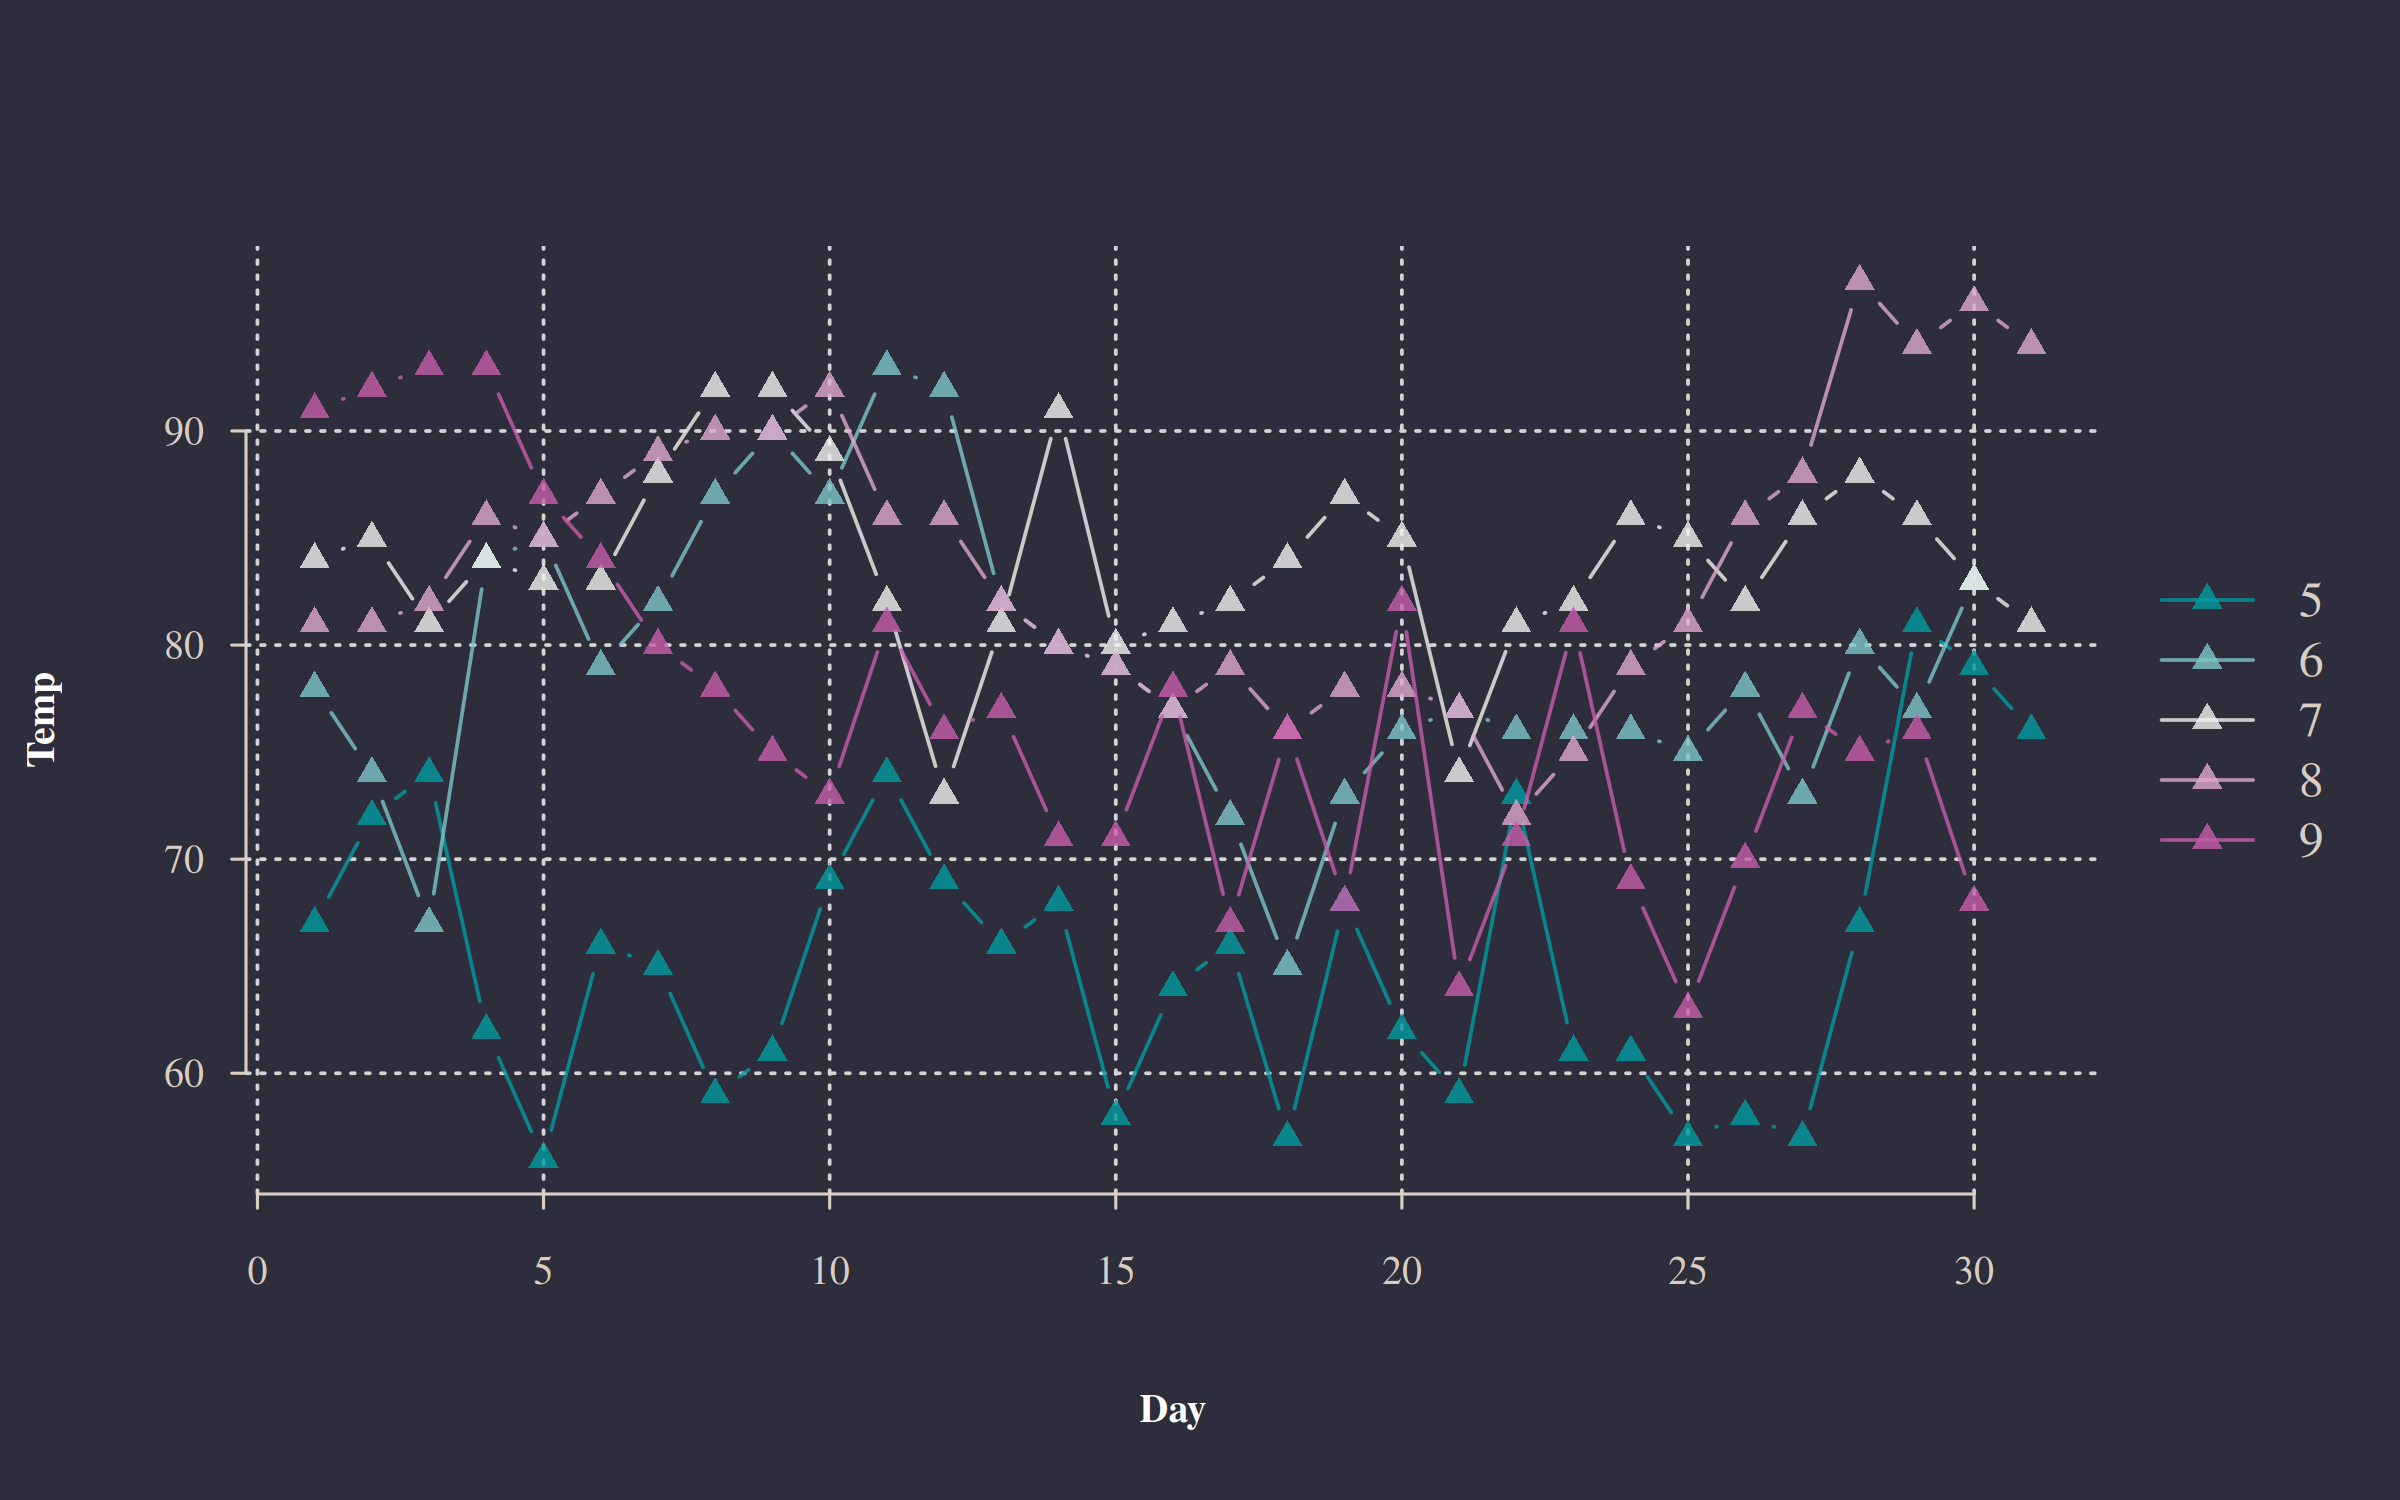
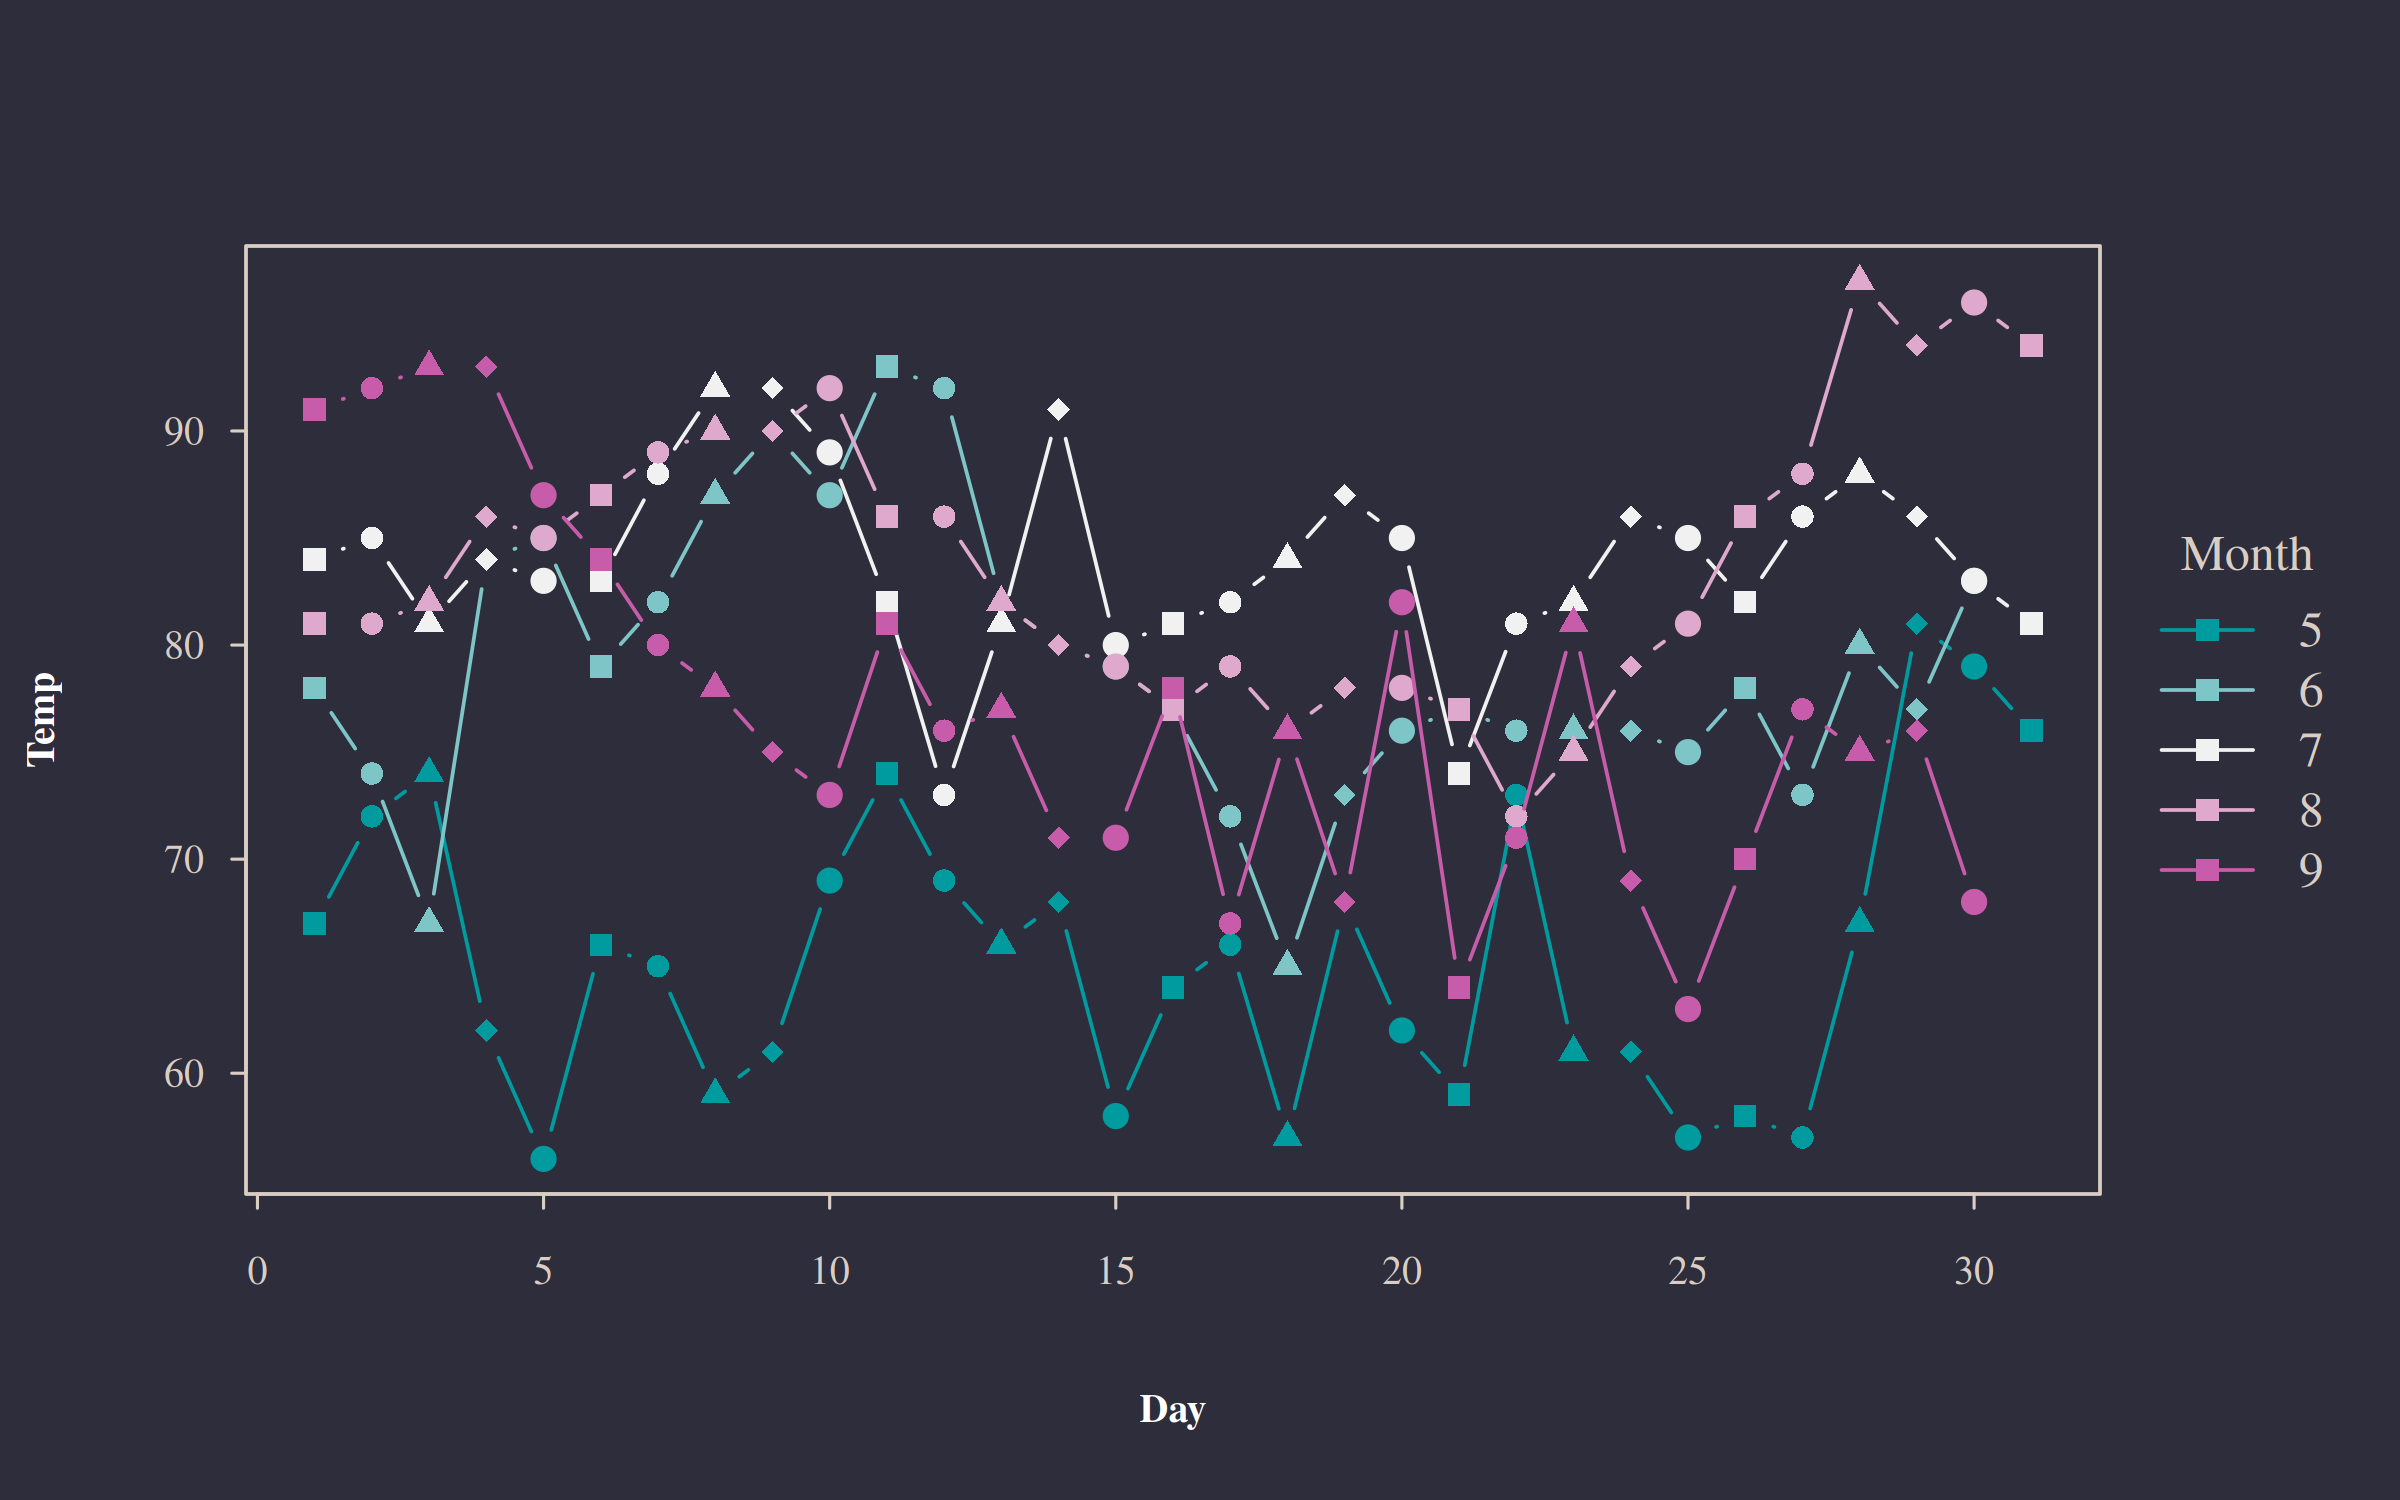
README typos and tweaks

diff --git a/README.md b/README.md
@@ -31,13 +31,13 @@ of, and in between these amazing packages.
 
 It is perhaps not surprising then that the base R graphics system
 sometimes gets short shrift. This is unfortunate, because base R offers
-extraordinarily powerful and flexible plotting facilities. Just type in
-`demo("graphics")` in your R console to get an idea, or see these two
-excellent
+very powerful and flexible plotting facilities. Just type in
+`demo(graphics)` or `demo(persp)` into your R console to get an idea, or
+see these two excellent
 [introductory](https://github.com/karoliskoncevicius/tutorial_r_introduction/blob/main/baseplotting.md)
 [tutorials](https://quizzical-engelbart-d15a44.netlify.app/2021-2022_m2-data-2_visu-2_practice#1).
 The downside of this power and flexibility is that plotting in base R
-can require quite a lot of manual tinkering. A case in point is plotting
+can require a fair bit of manual tinkering. A case in point is plotting
 grouped data and then generating an appropriate legend. Doing this with
 the generic `plot()` function can require several function calls (or a
 loop), fiddling with your plot regions, and writing the legend out
@@ -60,7 +60,7 @@ a more convenient version of the base R `plot` functionality. You can
 use pretty much the same syntax and all of your theming elements should
 carry over too. It has no other dependencies than base R itself, which
 might make it more suitable for situations where dependency management
-is expensive (e.g., an R application running ina browser via
+is expensive (e.g., an R application running in a browser via
 [WebAssembly](https://docs.r-wasm.org/webr/latest/).)
 
 ## Examples
@@ -102,10 +102,10 @@ plot2(Temp ~ Day, data = airquality, main = "plot2 (formula)")
 par(op) # reset to a unique (single) plot frame
 ```
 
-So far, so good. Where `plot2` starts to diverge from its base
+So far, so good. But where `plot2` starts to diverge from its base
 counterpart is with respect to grouped data. In particular, `plot2`
-allows you to characterize groups using the `by` argument. Notice that
-we also get an automatic legend (we’ll return to that shortly).
+allows you to characterize groups using the `by` argument.[^1] for a
+longer discussion.\]
 
 ``` r
 plot2(airquality$Day, airquality$Temp, by = airquality$Month)
@@ -113,8 +113,12 @@ plot2(airquality$Day, airquality$Temp, by = airquality$Month)
 
 <img src="man/figures/README-unnamed-chunk-5-1.png" width="100%" />
 
+Notice that we also get an automatic legend. We’ll return to legend
+customization shortly.
+
 An even more convenient approach is to use the equivalent formula
-syntax. Just place the grouping variable after a vertical bar `|`.
+syntax. Just place the grouping variable after a vertical bar (i.e.,
+`|`).
 
 ``` r
 plot2(Temp ~ Day | Month, airquality)
@@ -122,20 +126,11 @@ plot2(Temp ~ Day | Month, airquality)
 
 <img src="man/figures/README-unnamed-chunk-6-1.png" width="100%" />
 
-At this point, experienced base plot users might protest that you *can*
-colour by groups using the `col` argument.[^1] This is true, but there
-are several points to push back on. First, you don’t get an automatic
-legend. Second, the base `plot` formula method doesn’t specify the
-grouping within the formula itself (not a deal-breaker, but particularly
-consistent in my view). Third, and perhaps most importantly, this
-grouping doesn’t carry over to line plots (i.e., type=“l”). Instead, you
-have to transpose your data and use `mplot`.[^2]
-
-We can contrast this with `plot2` where converting to a grouped line
-plot is a simple argument change. I’ll also use this as an opportunity
-to highlight that the legend responds accordingly to these plot element
-changes and can be further customized. Note the use of the “!” in the
-`legend.position` argument to place the legend *outside* the plot area.
+Converting to a grouped line plot is a simple matter of adjusting the
+`type` argument. I’ll also use this as an opportunity to highlight that
+the legend responds to these plot element changes accordingly and can be
+further customized. Note the use of the “!” in the `legend.position`
+argument to place the legend *outside* the plot area.
 
 ``` r
 plot2( 
@@ -151,7 +146,7 @@ Let’s discuss colour palettes briefly. The default group colours in
 `plot2` are either “Okabe-Ito” or “Viridis”, depending on the number of
 groups. But this is easily changed via the `palette` argument. Note that
 all palettes supported by `palette.pals()` and `hcl.pals()` are
-supported out-of-the-box.[^3] Just pass on an appropriate palette name
+supported out-of-the-box.[^2] Just pass on an appropriate palette name
 as a string.
 
 ``` r
@@ -165,14 +160,16 @@ plot2(
 
 <img src="man/figures/README-unnamed-chunk-8-1.png" width="100%" />
 
-Its possible to add a lot more customization to your plots using the
-accompanying `legend.args` and `palette.args` arguments. You can turn
-off the legend title and bounding box, switch the direction of the text,
-add transparency to your colour palette, etc. etc. Here’s a quick
-penultimate example, where we also show off the enhanced `grid`
+Its possible to add a lot more customization to your plots. For example,
+the accompanying `legend.args` and `palette.args` arguments allow you to
+turn off the legend title and bounding box, switch the direction of the
+text, add transparency to your colour palette, etc. etc. Here’s a quick
+penultimate example, where we also show off `plot2`’s enhanced `grid`
 argument.
 
 ``` r
+par(family = "Hershey") # Use R's built-in Hershey fonts instead of Arial default
+
 plot2(
   Temp ~ Day | Month, airquality,
   type = "b", pch = 16,
@@ -184,9 +181,12 @@ plot2(
 
 <img src="man/figures/README-unnamed-chunk-9-1.png" width="100%" />
 
-Finally, because `plot2` is ultimately just a wrapper around base
-`plot`, any theming elements set by `par` etc. should carry over too.
-For nice out-of-the-box themes, I recommend the **basetheme** package.
+The use of `par` (to set the font family) in the above example again
+underscores the correspondence with the base graphics system. Because
+`plot2` is effectively a convenience wrapper around base `plot`, any
+global elements that you have set for the latter should carry over to
+the former. For nice out-of-the-box themes, I recommend the
+**basetheme** package.
 
 ``` r
 library(basetheme)
@@ -194,10 +194,9 @@ basetheme("royal") # or "clean", "dark", "ink", "brutal", etc.
 
 plot2(
   Temp ~ Day | Month, airquality,
-  type = "b", pch = 17,
-  grid = grid(), frame.plot = FALSE,
-  legend.position = "right!", legend.args = list(bty = "n", title = NULL),
-  palette = "Tropic", palette.args = list(alpha = 0.8)
+  type = "b", pch = 15:19,
+  legend.position = "right!", legend.args = list(bty = "n"),
+  palette = "Tropic"
 )
 ```
 
@@ -205,16 +204,22 @@ plot2(
 
 ``` r
 
-basetheme(NULL) # back to default
+# basetheme(NULL) # back to default
 ```
 
-[^1]: E.g.,
+[^1]: At this point, experienced base plot users might protest that you
+    *can* colour by groups using the `col` argument, e.g.
     `plot(airquality$Day, airquality$Temp, col = airquality$Month)`.
-
-[^2]: See
+    This is true, but there are several points to push back on. First,
+    you don’t get an automatic legend. Second, the base `plot` formula
+    method doesn’t specify the grouping within the formula itself (not a
+    deal-breaker, but not particularly consistent in my view). Third,
+    and perhaps most importantly, this grouping doesn’t carry over to
+    line plots (i.e., type=“l”). Instead, you have to transpose your
+    data and use `mplot`. See
     [this](https://stackoverflow.com/questions/10519873/how-to-create-a-line-plot-with-groups-in-base-r-without-loops)
-    old StackOverflow thread.
+    old StackOverflow thread
 
-[^3]: See the accompanying help pages of those functions for more
+[^2]: See the accompanying help pages of those functions for more
     details, or read the [article](https://arxiv.org/pdf/2303.04918.pdf)
     by Achim Zeileis and Paul Murrell.
